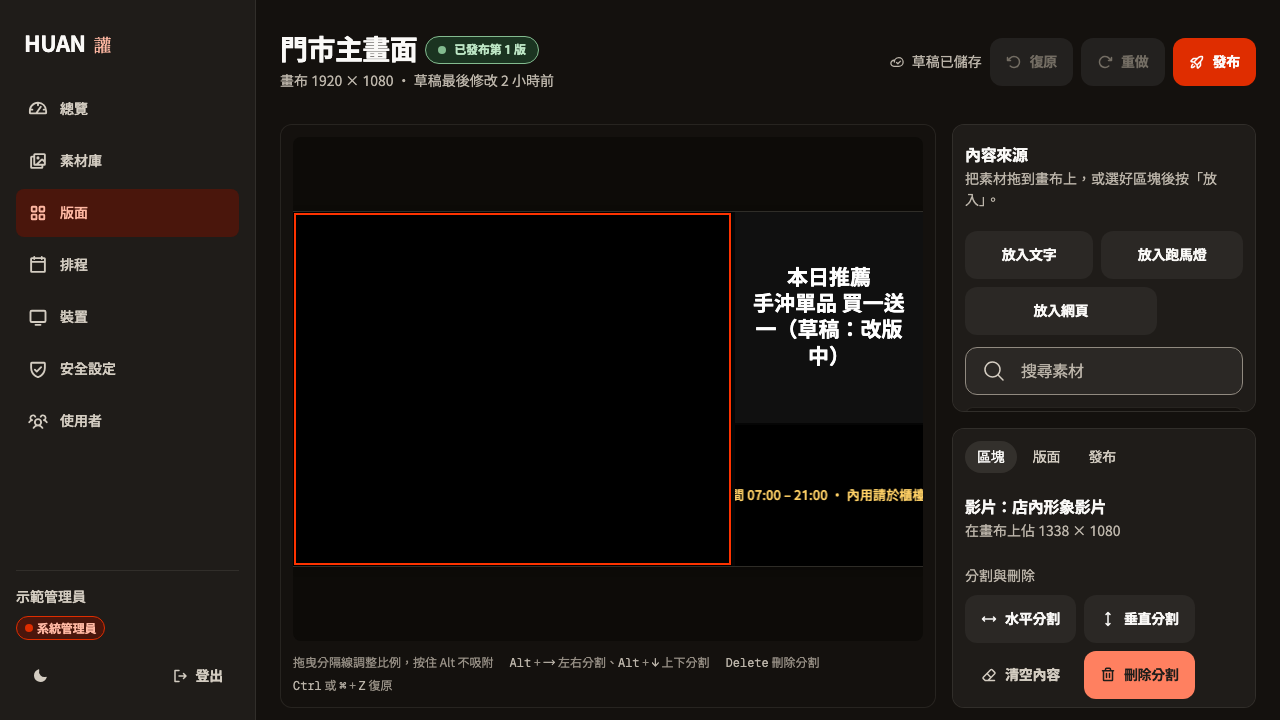
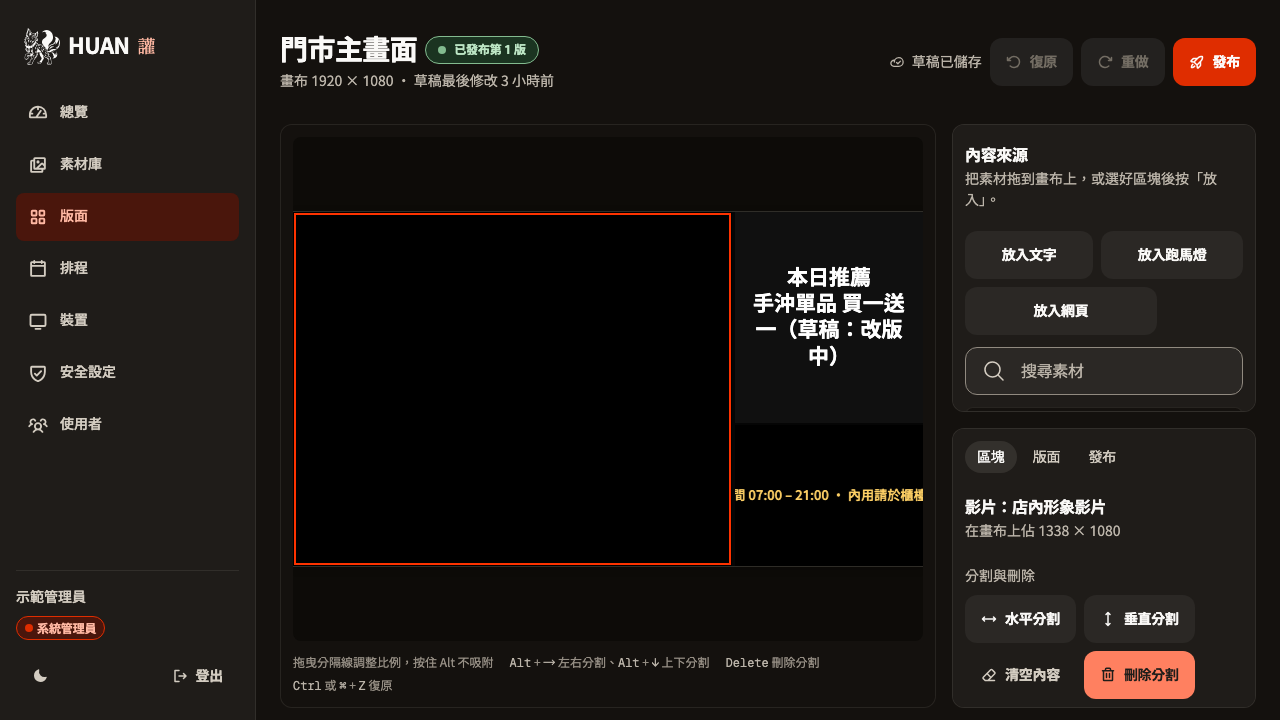
admin: 加上品牌標誌
把桌面上畫好的獸放進來，同時補上原本沒有的 favicon——index.html 從來沒有
宣告過 icon，分頁上一直是空白的預設圖示。

一份檔案兩個用途。原檔是深淺兩份，差別只有 fill（#302C2A 與 #F0EBE7），路徑
完全一樣，所以合成一份 public/logo.svg：

- 當 favicon 時，檔案裡的 <style> 帶 prefers-color-scheme，深色分頁列上不會
  變成一團看不見的黑。
- 當品牌標誌時，用 CSS 遮罩取形狀，顏色一律來自 currentColor，也就是
  `.huan-shell__brand` 的 --text-title。字標和標誌因此永遠同色，換主題自己
  跟上，不需要第二個檔案。原本的兩個色值和主題的 --text-title 差了一點
  （#302C2A 對 #292621、#F0EBE7 對 #FAF9F7），並排會看得出來。

尺寸給 2.25rem。這隻獸是線稿，斑點、鬍鬚和項圈的珠子在 32px 以下會糊成一個
看不出是什麼的深色團塊；36px 是還讀得出來的下限。高寬照原圖的 994 × 1015
給，不然線條會被拉扁。

路徑本身有 27 KB，放 public 而不是內嵌進 JS——它是不會變的美術資產，沒必要
讓每一頁都揹一份。建置後主 bundle 反而小了 0.85 KB。

品牌組合原本在登入、配對、官網頁首、官網頁尾與後台側欄各抄了一次，五份要一起
改才不會有一頁長得不一樣，收成 shared/components/Brand.tsx。

Claude-Session: https://claude.ai/code/session_01Dxio925o5f4p1VVCfafFft

diff --git a/apps/admin/src/styles/app.css b/apps/admin/src/styles/app.css
@@ -143,12 +143,34 @@ body {
 
 .huan-shell__brand {
 	display: flex;
-	align-items: baseline;
+	/* 標誌是圖，跟著文字的基線排會浮在半空；改成對齊視覺中線。 */
+	align-items: center;
 	gap: var(--space-2);
 	text-decoration: none;
 	color: var(--text-title);
 	padding: var(--space-2);
 	border-radius: var(--radius-sm);
+}
+
+/*
+ * 標誌用遮罩上色。
+ *
+ * 這隻獸是單一路徑的線稿，遮罩只取形狀，顏色一律來自 currentColor——也就是
+ * 上面那行 `color: var(--text-title)`。字標和標誌因此永遠同色，換主題也不用
+ * 準備第二個檔案。
+ *
+ * 尺寸不能再小。線稿裡有斑點、鬍鬚和項圈的珠子，量下來 32px 以下那些線就糊
+ * 成一團，只剩一個看不出是什麼的深色團塊；36px 是還讀得出是一隻獸的下限。
+ */
+.huan-shell__brand-logo {
+	display: block;
+	flex: none;
+	inline-size: var(--huan-brand-logo-size, 2.25rem);
+	/* 原圖 994 × 1015，高比寬多一點點；照原比例給，線條才不會被拉扁。 */
+	block-size: calc(var(--huan-brand-logo-size, 2.25rem) * 1015 / 994);
+	background: currentColor;
+	mask: url("/logo.svg") no-repeat center / contain;
+	-webkit-mask: url("/logo.svg") no-repeat center / contain;
 }
 
 .huan-shell__brand:focus-visible {

diff --git a/apps/admin/src/features/marketing/LandingPage.tsx b/apps/admin/src/features/marketing/LandingPage.tsx
@@ -1,4 +1,5 @@
 import "@/features/marketing/landing.css";
+import { Brand } from "@/shared/components/Brand";
 import { OsIcon, type OsKey } from "@/shared/components/OsIcon";
 import { ThemeToggle } from "@/shared/components/ThemeToggle";
 import { Button, Card, CardBody, CardDescription, CardTitle, Link } from "@linyao.tw/ui";
@@ -158,8 +159,7 @@ export function LandingPage() {
 		<div className="huan-landing">
 			<header className="huan-landing__header huan-landing__inner">
 				<RouterLink to="/" className="huan-shell__brand">
-					<span className="huan-shell__brand-mark">HUAN</span>
-					<span className="huan-shell__brand-han">讙</span>
+					<Brand />
 				</RouterLink>
 				<div className="huan-row huan-row--tight">
 					<ThemeToggle />
@@ -328,8 +328,7 @@ export function LandingPage() {
 					<div className="huan-landing__footer-top">
 						<div className="huan-stack huan-stack--sm">
 							<div className="huan-shell__brand">
-								<span className="huan-shell__brand-mark">HUAN</span>
-								<span className="huan-shell__brand-han">讙</span>
+								<Brand />
 							</div>
 							<p className="huan-landing__caption">{PRODUCT_TAGLINE}</p>
 						</div>

diff --git a/apps/admin/src/shared/components/Brand.tsx b/apps/admin/src/shared/components/Brand.tsx
@@ -1,0 +1,24 @@
+/**
+ * 品牌鎖定組合：獸、HUAN、讙。
+ *
+ * 這三個元素原本在登入、配對、官網頁首、官網頁尾與後台側欄各抄了一次，
+ * 五份要一起改才不會有一頁長得不一樣。外層的連結留給呼叫端——每一處要去的
+ * 地方不同，有的甚至不是連結。
+ */
+export function Brand() {
+	return (
+		<>
+			{/*
+			 * 標誌用 CSS 遮罩上色，不是直接放圖。
+			 *
+			 * 這隻獸是單一路徑的線稿，遮罩之後顏色由 currentColor 決定，和旁邊的字
+			 * 標永遠同一個色，主題換了也自己跟上。直接 <img> 的話顏色寫死在檔案裡，
+			 * 深色主題得再放一份；而路徑本身有 27 KB，內嵌進 JS 是讓每一頁都揹著
+			 * 一份不會變的美術資產。
+			 */}
+			<span className="huan-shell__brand-logo" aria-hidden="true" />
+			<span className="huan-shell__brand-mark">HUAN</span>
+			<span className="huan-shell__brand-han">讙</span>
+		</>
+	);
+}

diff --git a/apps/admin/src/features/devices/PairPage.tsx b/apps/admin/src/features/devices/PairPage.tsx
@@ -3,6 +3,7 @@ import "@/features/devices/devices.css";
 import { PlatformLabel } from "@/features/devices/DeviceStatus";
 import { useConfirmPairingMutation, usePairingLookupQuery } from "@/features/devices/hooks";
 import { useLayoutListQuery } from "@/features/layouts/hooks";
+import { Brand } from "@/shared/components/Brand";
 import { QueryErrorAlert } from "@/shared/components/QueryState";
 import { ThemeToggle } from "@/shared/components/ThemeToggle";
 import { isApiError } from "@/shared/services/http";
@@ -63,8 +64,7 @@ export function PairPage() {
 				<h1 className="huan-visually-hidden">裝置配對</h1>
 				<div className="huan-row huan-row--between">
 					<RouterLink to="/app" className="huan-shell__brand">
-						<span className="huan-shell__brand-mark">HUAN</span>
-						<span className="huan-shell__brand-han">讙</span>
+						<Brand />
 					</RouterLink>
 					<ThemeToggle />
 				</div>

diff --git a/apps/admin/src/features/auth/LoginPage.tsx b/apps/admin/src/features/auth/LoginPage.tsx
@@ -1,4 +1,5 @@
 import { useLoginMutation, useSessionQuery, useTotpChallengeMutation } from "@/features/auth/hooks";
+import { Brand } from "@/shared/components/Brand";
 import { ThemeToggle } from "@/shared/components/ThemeToggle";
 import { isApiError, type ApiError } from "@/shared/services/http";
 import { queryKeys } from "@/shared/services/query-keys";
@@ -108,8 +109,7 @@ export function LoginPage() {
 				<h1 className="huan-visually-hidden">登入 HUAN 讙 後台</h1>
 				<div className="huan-row huan-row--between">
 					<RouterLink to="/" className="huan-shell__brand">
-						<span className="huan-shell__brand-mark">HUAN</span>
-						<span className="huan-shell__brand-han">讙</span>
+						<Brand />
 					</RouterLink>
 					<ThemeToggle />
 				</div>

diff --git a/apps/admin/src/layouts/AppShell.tsx b/apps/admin/src/layouts/AppShell.tsx
@@ -1,4 +1,5 @@
 import { useLogoutMutation, useSessionQuery } from "@/features/auth/hooks";
+import { Brand } from "@/shared/components/Brand";
 import { ThemeToggle } from "@/shared/components/ThemeToggle";
 import { useAdminSocket } from "@/shared/hooks/use-admin-socket";
 import { Badge, Button } from "@linyao.tw/ui";
@@ -50,8 +51,7 @@ export function AppShell() {
 
 			<aside className="huan-shell__sidebar">
 				<NavLink to="/" className="huan-shell__brand">
-					<span className="huan-shell__brand-mark">HUAN</span>
-					<span className="huan-shell__brand-han">讙</span>
+					<Brand />
 				</NavLink>
 
 				<nav className="huan-shell__nav" aria-label="主要導覽">

diff --git a/apps/admin/index.html b/apps/admin/index.html
@@ -4,6 +4,7 @@
 		<meta charset="UTF-8" />
 		<meta name="viewport" content="width=device-width, initial-scale=1.0" />
 		<meta name="description" content="HUAN 讙 — 企業級雲端數位看板與媒體播放平台，支援影片、圖片、文字與網頁內容，並提供遠端素材管理、版面編排、排程發布、多裝置同步與離線播放能力。" />
+		<link rel="icon" type="image/svg+xml" href="/logo.svg" />
 		<title>HUAN 讙 — 雲端數位看板系統</title>
 		<script>
 			/* 主題必須在第一次繪製前決定，否則深色使用者會先看到一閃而過的亮色畫面。 */
